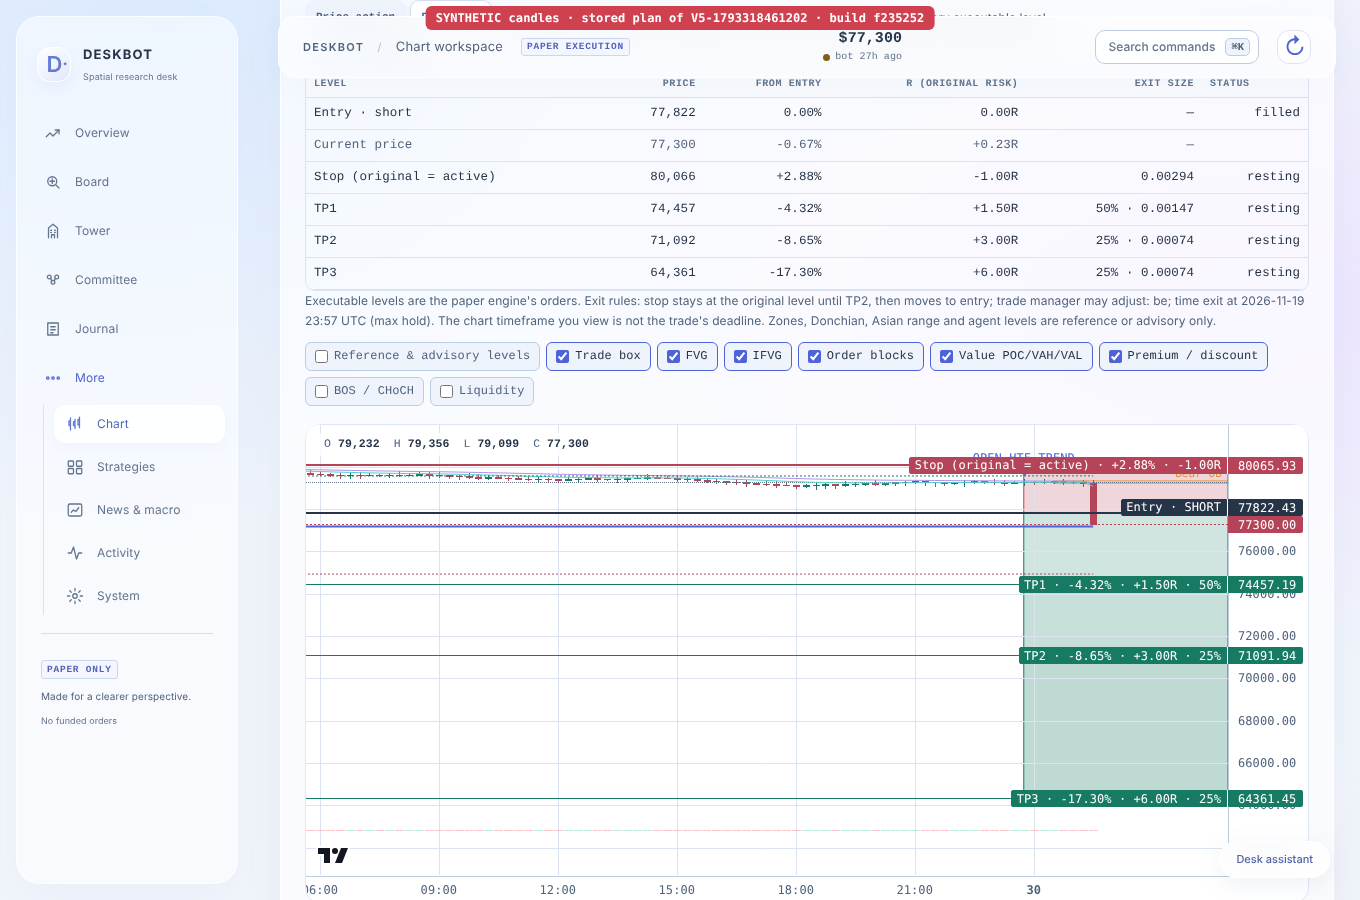
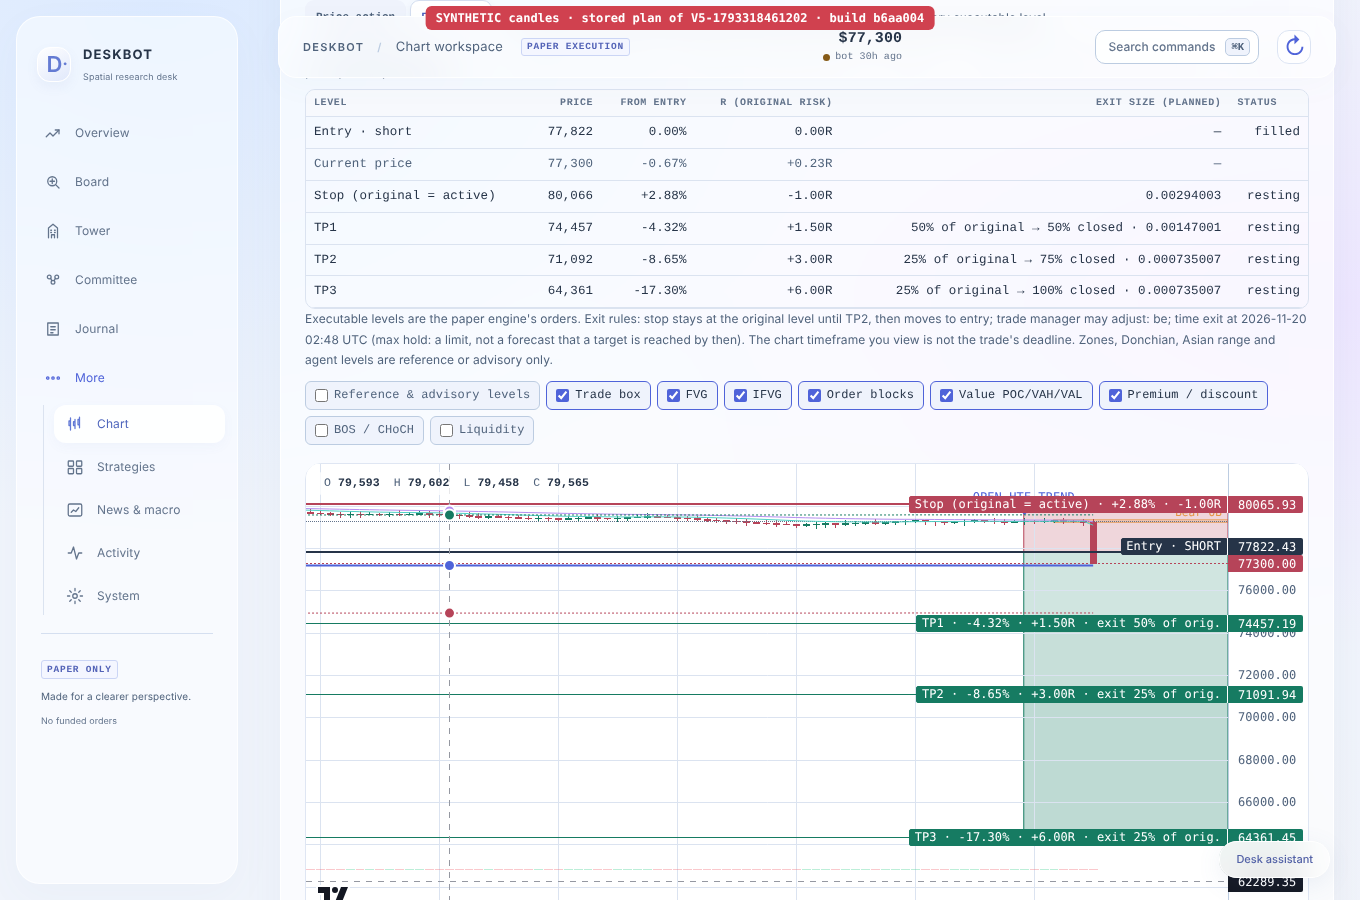
Chart plan: screenshots for b6aa004 (price, plan, candle-error; desktop and phone)
Claude-Session: https://claude.ai/code/session_01AejtZvfdWPQJRLt5Q4SSCm

diff --git a/docs/evidence/chart/README.md b/docs/evidence/chart/README.md
@@ -1,5 +1,14 @@
 # Chart plan screenshots: SYNTHETIC candles
-Taken by `scripts/web_smoke/chart_plan.cjs` against build `f235252` (mocked network).
+Taken by `scripts/web_smoke/chart_plan.cjs` against build `b6aa004` (mocked network, Chromium, 1360×900 desktop and 390×844 phone).
 - The position levels are the **stored plan** of BTC HTF_TREND short V5-1793318461202 (record D-V5-1793318461202).
 - The candles and the open time are **synthetic**, so the time-exit date shown differs from the real one (real: 2026-11-20 00:01 UTC).
-- Every image carries a red SYNTHETIC banner with the build SHA.
+- Every image carries a red banner with the build SHA.
+
+| File | State |
+|---|---|
+| `chart_price_*.png` | Price-action view (default): entry, current price, stop; reference levels off |
+| `chart_plan_*.png` | Full-plan view: all targets in range, plan table |
+| `chart_error_*.png` | Candle source blocked: error message on the chart; the plan table still renders from the stored position, without the current price |
+
+Smoke result for this build: loading placeholder present in the static page; 0 console/page errors; no horizontal page scroll on either viewport; 6 plan rows (5 in the error state, no current price).
+Exit sizes follow the executor (`engine.ts fill`): each target closes up to a cumulative share of the ORIGINAL quantity (50% → 75% → 100%); the table shows "25% of original → 75% closed". An earlier partial close makes the actual fill smaller.
